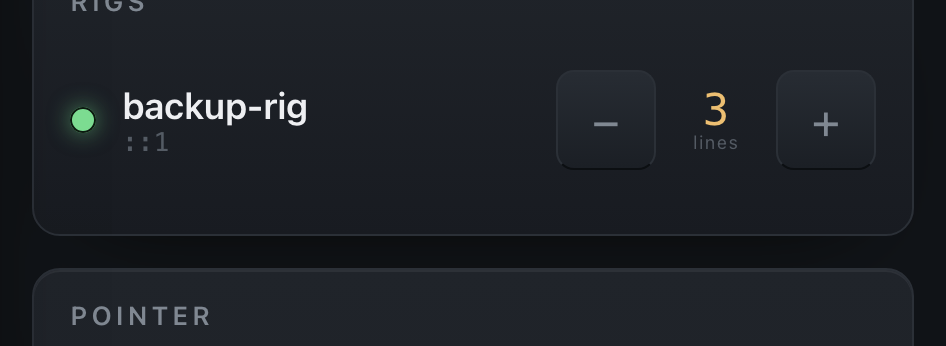
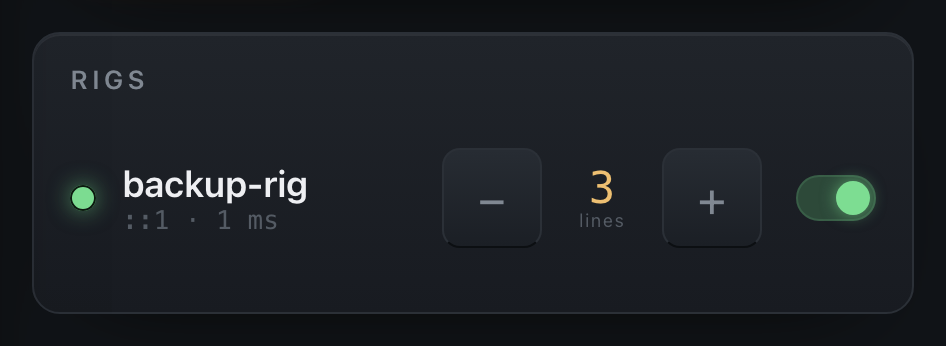
Site + README: scroll-snap feature gallery, section-dot nav; document production features with screenshots

diff --git a/docs/index.html b/docs/index.html
@@ -196,11 +196,36 @@
   }
   @supports (animation-timeline: view()){
     @media (prefers-reduced-motion: no-preference){
-      .feat .cell, .tour .tourcard, .steps .step, .band{
+      .feat .cell, .tour .tourcard, .steps .step, .band, .gallery, .stickywrap{
         animation:sr-in linear both; animation-timeline:view(); animation-range:entry 0% cover 26%; }
       .shot{ animation:shot-in linear both; animation-timeline:view(); animation-range:entry 0% cover 42%; }
     }
   }
+
+  /* section-dot navigator */
+  .dots{ position:fixed; right:18px; top:50%; transform:translateY(-50%); z-index:55;
+    display:flex; flex-direction:column; gap:13px; }
+  @media (max-width:860px){ .dots{ display:none; } }
+  .dots a{ width:9px; height:9px; border-radius:50%; background:#2a3038; transition:.2s; }
+  .dots a:hover{ background:var(--ink-dim); }
+  .dots a.active{ background:var(--amber); box-shadow:0 0 10px var(--amber-glow); transform:scale(1.3); }
+
+  /* horizontal scroll-snap gallery */
+  .gallery{ margin-top:26px; display:grid; grid-auto-flow:column; grid-auto-columns:min(82%,360px);
+    gap:18px; overflow-x:auto; scroll-snap-type:x proximity; padding:6px 2px 16px; scrollbar-width:thin; }
+  .gallery::-webkit-scrollbar{ height:8px; }
+  .gallery::-webkit-scrollbar-thumb{ background:var(--hair); border-radius:4px; }
+  .gcard{ scroll-snap-align:center; border:1px solid var(--hair); border-radius:16px; overflow:hidden;
+    background:linear-gradient(180deg,var(--panel),var(--bg-2)); display:flex; flex-direction:column; }
+  .gcard .gimg{ background:radial-gradient(120% 120% at 50% 0%, #161b22 0%, var(--well) 70%);
+    border-bottom:1px solid var(--hair); padding:22px; min-height:206px; display:flex; align-items:center; justify-content:center; }
+  .gcard .gimg img{ max-width:100%; max-height:264px; height:auto; display:block; border-radius:10px; box-shadow:0 20px 40px -24px #000; }
+  .gcard .gimg.plain img{ box-shadow:none; }
+  .gcard figcaption{ padding:17px 19px 20px; }
+  .gcard figcaption .k{ font-family:var(--mono); font-size:11px; letter-spacing:.14em; color:var(--amber-soft); display:block; margin-bottom:8px; }
+  .gcard figcaption h3{ font-size:16px; font-weight:650; margin-bottom:5px; }
+  .gcard figcaption p{ font-size:13.5px; color:var(--ink-dim); }
+  .swipe{ font-family:var(--mono); font-size:12px; color:var(--ink-faint); letter-spacing:.04em; }
 
   footer{ border-top:1px solid var(--hair); padding:34px 0 48px; color:var(--ink-faint); font-size:13px; }
   .foot{ display:flex; flex-wrap:wrap; gap:14px 22px; align-items:center; }
@@ -211,6 +236,15 @@
 <body>
 
 <div class="scroll-progress" aria-hidden="true"></div>
+
+<nav class="dots" id="dots" aria-label="Section navigation">
+  <a href="#top" data-sec="top" title="Top"></a>
+  <a href="#features" data-sec="features" title="Features"></a>
+  <a href="#tour" data-sec="tour" title="A closer look"></a>
+  <a href="#pro" data-sec="pro" title="Production-grade"></a>
+  <a href="#how" data-sec="how" title="How it works"></a>
+  <a href="#get" data-sec="get" title="Download"></a>
+</nav>
 
 <nav id="nav"><div class="wrap nav">
   <a class="brand" href="#top">
@@ -343,6 +377,38 @@
   </div>
 </div></section>
 
+<section id="pro"><div class="wrap">
+  <div class="lbl">PRODUCTION-GRADE</div>
+  <h2>Built for the room.</h2>
+  <p class="sub">The confidence and control a live show needs — know every rig is in step, lock it down, and drive it from anywhere. <span class="swipe">swipe →</span></p>
+  <div class="gallery">
+    <figure class="gcard">
+      <div class="gimg"><img src="features/sync.png" alt="Live in-sync status, latency and armed state" loading="lazy" /></div>
+      <figcaption><span class="k">IN SYNC</span><h3>Confidence at a glance</h3><p>Every rig acknowledges each command. A live <b>IN SYNC / DRIFT</b> readout, per-rig latency, and connect/drop alerts — you always know both rigs agree.</p></figcaption>
+    </figure>
+    <figure class="gcard">
+      <div class="gimg plain"><img src="features/pin.png" alt="Session PIN unlock screen" loading="lazy" /></div>
+      <figcaption><span class="k">SECURE</span><h3>Lock the session</h3><p>Set a <b>PIN</b> so only trusted devices can control the show, and <b>Arm / Disarm</b> to stop stray keys ever reaching air.</p></figcaption>
+    </figure>
+    <figure class="gcard">
+      <div class="gimg"><img src="features/auto.png" alt="Auto-scroll control" loading="lazy" /></div>
+      <figcaption><span class="k">AUTO-SCROLL</span><h3>Hands-free crawl</h3><p>A steady, adjustable WPM-style scroll pushed to every rig — play or pause with one tap.</p></figcaption>
+    </figure>
+    <figure class="gcard">
+      <div class="gimg plain"><img src="features/remote.png" alt="Phone Remote mode" loading="lazy" /></div>
+      <figcaption><span class="k">PHONE REMOTE</span><h3>Drive from your pocket</h3><p>Scan the QR and your phone becomes a full-screen rocker — scroll, page, play, and speed, sized for a thumb.</p></figcaption>
+    </figure>
+    <figure class="gcard">
+      <div class="gimg plain"><img src="features/mini.png" alt="Mini controller and tray" loading="lazy" /></div>
+      <figcaption><span class="k">ALWAYS IN REACH</span><h3>Tray, hotkeys &amp; mini</h3><p>Global hotkeys, a menu-bar tray that hosts in the background, and a tiny always-on-top transport (⌘⇧M).</p></figcaption>
+    </figure>
+    <figure class="gcard">
+      <div class="gimg plain"><img src="features/presets.png" alt="Presets and custom key mapping" loading="lazy" /></div>
+      <figcaption><span class="k">SET UP ONCE</span><h3>Presets &amp; key maps</h3><p>Save show presets and remap any action to the keys your teleprompter app actually uses.</p></figcaption>
+    </figure>
+  </div>
+</div></section>
+
 <section><div class="wrap">
   <div class="lbl">NO TERMINAL, NO SETUP</div>
   <h2>Host or join in one tap.</h2>
@@ -379,7 +445,7 @@
   </div>
 </div></section>
 
-<section><div class="wrap">
+<section id="get"><div class="wrap">
   <div class="band">
     <div class="lbl" style="display:block;margin-bottom:8px">READY WHEN THE PRIMARY ISN'T</div>
     <h2>Keep the backup in lockstep.</h2>
@@ -422,6 +488,22 @@
     fit();
     if (document.fonts && document.fonts.ready) document.fonts.ready.then(fit);
     setTimeout(fit, 300);
+  })();
+
+  // section-dot navigator — highlight the section currently in view
+  (function(){
+    var dots = document.querySelectorAll('.dots a');
+    if (!dots.length || !('IntersectionObserver' in window)) return;
+    var obs = new IntersectionObserver(function(entries){
+      entries.forEach(function(e){
+        if (e.isIntersecting){
+          dots.forEach(function(a){ a.classList.toggle('active', a.dataset.sec === e.target.id); });
+        }
+      });
+    }, { rootMargin: '-45% 0px -45% 0px', threshold: 0 });
+    ['top','features','tour','pro','how','get'].forEach(function(id){
+      var el = document.getElementById(id); if (el) obs.observe(el);
+    });
   })();
 </script>
 

diff --git a/public/index.html b/public/index.html
@@ -619,7 +619,7 @@
         <div class="body"><div id="rigs"><div class="empty">Waiting for a rig to come online. Start <code style="font-family:var(--mono)">agent.js</code> on each laptop.</div></div></div>
       </div>
 
-      <div class="card reveal d2">
+      <div class="card reveal d2" id="autoCard">
         <h2>AUTO-SCROLL</h2>
         <div class="body">
           <div class="auto-row">

diff --git a/README.md b/README.md
@@ -37,6 +37,8 @@ Every serious live broadcast runs a **backup teleprompter** in case the primary 
 | 🎚 **Per-rig speed trim** | Each rig can scroll a little faster or slower so two different teleprompter apps stay aligned. |
 | 📱 **Join from a phone or tablet** | Scan a QR code to turn any device into a wireless controller. |
 | 🛰 **Local network only** | Everything stays on your Wi-Fi/LAN. No accounts, no servers, no data leaves the room. |
+| ✅ **Live sync confidence** | Every rig acknowledges each command — IN SYNC / DRIFT status, per-rig latency, and connect/drop alerts. |
+| 🔐 **Locked & armed** | A session PIN plus arm/disarm keep random devices and stray keys off air. |
 
 ## A closer look
 
@@ -73,9 +75,38 @@ A scannable **QR** and copyable URL put the full controller on any device on the
 When the console isn't focused, a floating widget shows link status, rig count, and a live command ticker. Click it to jump back.
 
 ### Host or join in one tap
-<img src="assets/features/launch.png" alt="Host / Join launch screen" width="380" />
+<img src="assets/features/presets.png" alt="Host / Join launch screen with presets and key mapping" width="380" />
 
-The native app bundles the hub, agent, and injector. Pick a role and go — no Terminal, no config files.
+The native app bundles the hub, agent, and injector. Pick a role and go — no Terminal, no config files. Save **presets**, pick your teleprompter app from a list, or remap keys if it uses different ones.
+
+## Production-grade control
+
+Everything a live show needs to trust the backup and run it from anywhere.
+
+### Know you're in sync
+<img src="assets/features/sync.png" alt="Live in-sync status, latency, armed state" width="620" />
+
+Every rig acknowledges each command. The header shows a live **IN SYNC / SYNCING / DRIFT** state, **per-rig latency**, and connect/drop alerts — so you always know both rigs agree.
+
+### Lock it down
+<img src="assets/features/pin.png" alt="Session PIN unlock screen" width="420" />
+
+Set a **session PIN** so only trusted devices can control the show, and **Arm / Disarm** to stop stray keys ever reaching air.
+
+### Auto-scroll
+<img src="assets/features/auto.png" alt="Auto-scroll control" width="440" />
+
+A steady, adjustable WPM-style crawl pushed to every rig — play or pause with one tap.
+
+### Phone Remote mode
+<img src="assets/features/remote.png" alt="Phone Remote mode" width="300" />
+
+Scan the QR and your phone becomes a full-screen rocker — scroll, page, play, and speed, sized for a thumb.
+
+### Always within reach
+<img src="assets/features/mini.png" alt="Mini controller" width="190" />
+
+A tiny always-on-top transport (**⌘⇧M**), **global hotkeys** that work with the console unfocused, and a **menu-bar tray** that keeps hosting in the background.
 
 ## Quick start
 
